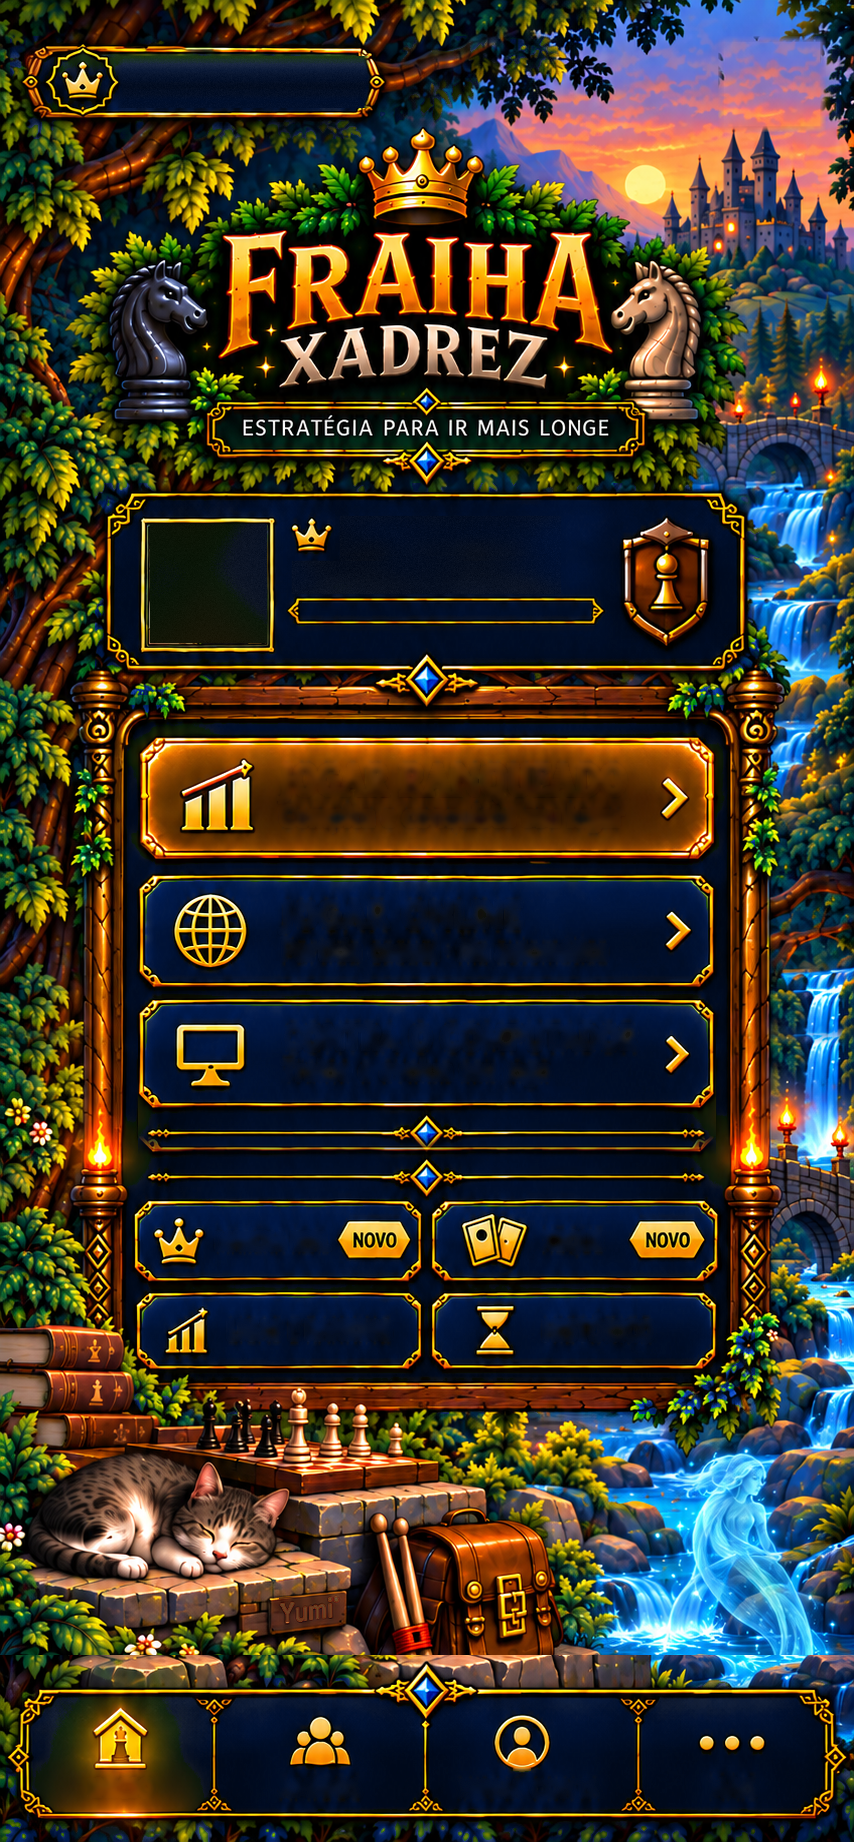
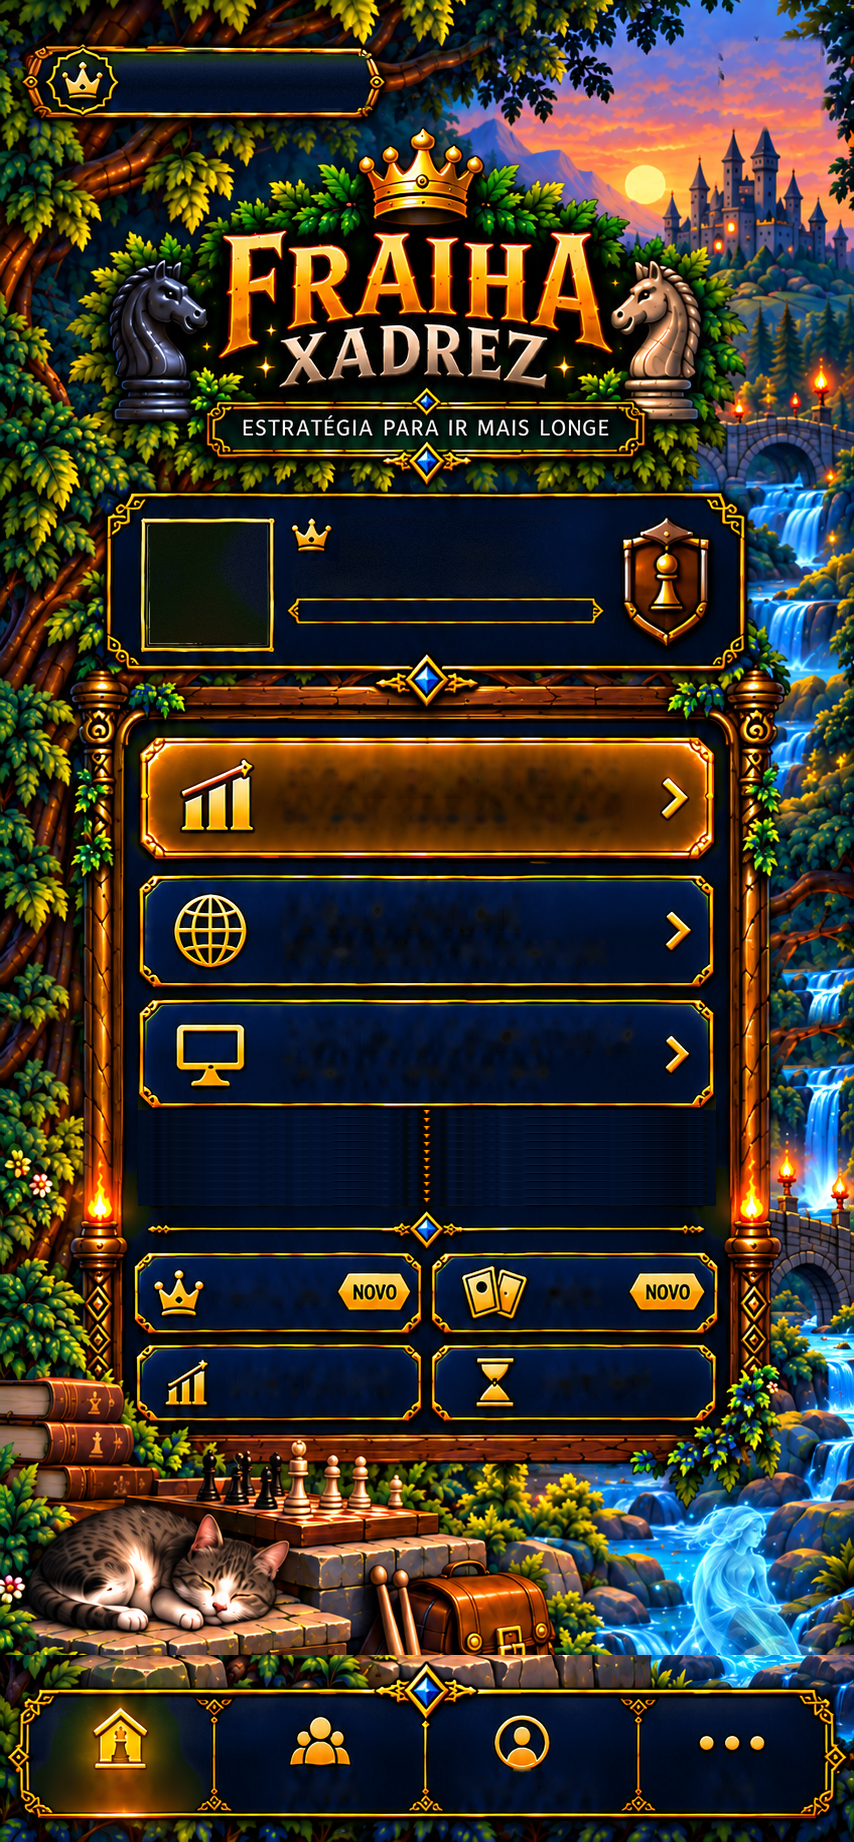
R178e: botão do PASSE = arte do dono (barra roxa de progresso, nível no escudo), PC e celular
Claude-Session: https://claude.ai/code/session_016vKvXoMfUjcNC2AWvYdkWV

Changed region(s): [[0.0, 0.5261, 1.0, 0.8974]]

diff --git a/tools/pass_button_r178e.py b/tools/pass_button_r178e.py
@@ -1,0 +1,75 @@
+#!/usr/bin/env python3
+"""R178e · BOTÃO DO PASSE = a arte do dono (tools/ref_r178_pass_button.png, 2172x724), idêntica.
+Saídas (recortadas na caixa da arte, 2035x501):
+  economy/art/pass_button_plate.png — a arte SEM a frase de baixo, SEM o preenchimento roxo da barra e SEM o número
+                                      do nível (o jogo escreve/desenha esses três, que mudam)
+  economy/art/pass_button_fill.png  — o preenchimento roxo da barra (corpo + ponta), esticado pelo jogo até o progresso
+"""
+import os
+import numpy as np
+import cv2
+from scipy import ndimage
+ROOT = os.path.dirname(os.path.dirname(os.path.abspath(__file__)))
+BOX = (67, 103, 2103, 605)            # x0, y0, x1, y1 da arte (fora é transparente)
+SUB = (515, 338, 1650, 424)           # frase "Temporada de Outubro · faltam 8 dias"
+BAR = (520, 438, 1704, 491)           # miolo da barra (entre as bordas douradas)
+FILL = (520, 438, 1062, 491)          # o roxo da referência
+NUM = (1845, 350, 1950, 458)          # o "7" do escudo
+src = cv2.imread(os.path.join(ROOT, "tools/ref_r178_pass_button.png"), cv2.IMREAD_UNCHANGED)
+rgb = src[..., :3].astype(np.float32)
+A = src[..., 3]
+L = rgb @ np.array([0.114, 0.587, 0.299], np.float32)   # BGR
+
+def fill_bg(img, mask, box, sx=30, sy=4):
+    x0, y0, x1, y1 = box
+    px0, py0, px1, py1 = x0 - 40, y0 - 30, x1 + 40, y1 + 30
+    sub = img[py0:py1, px0:px1]
+    ms = mask[py0:py1, px0:px1]
+    w = (~ms).astype(np.float32)
+    out = np.zeros_like(sub)
+    for s in [(sx, sy), (sx * 2, sy * 2), (sx * 4, sy * 4)]:
+        num = cv2.GaussianBlur(sub * w[..., None], (0, 0), sigmaX=s[0], sigmaY=s[1])
+        den = cv2.GaussianBlur(w, (0, 0), sigmaX=s[0], sigmaY=s[1])[..., None]
+        f = num / np.maximum(den, 1e-4)
+        ok = (den[..., 0] > 0.05) & (out.sum(-1) == 0)
+        out[ok] = f[ok]
+    out += np.random.default_rng(5).normal(0, 1.5, out.shape).astype(np.float32)
+    sub[ms] = out[ms]
+
+clean = rgb.copy()
+# 1) frase: letras claras (creme) sobre o painel azul
+x0, y0, x1, y1 = SUB
+m = np.zeros(L.shape, bool)
+m[y0:y1, x0:x1] = L[y0:y1, x0:x1] > 105
+m = ndimage.binary_dilation(m, iterations=4)
+mm = np.zeros_like(m); mm[y0 - 4:y1 + 4, x0 - 4:x1 + 4] = True; m &= mm
+fill_bg(clean, m, SUB)
+# 2) número do nível: dourado sobre o roxo do escudo
+x0, y0, x1, y1 = NUM
+m = np.zeros(L.shape, bool)
+m[y0:y1, x0:x1] = (L[y0:y1, x0:x1] > 70) | (L[y0:y1, x0:x1] < 36)
+m = ndimage.binary_dilation(m, iterations=3)
+mm = np.zeros_like(m); mm[y0 - 3:y1 + 3, x0 - 3:x1 + 3] = True; m &= mm
+fill_bg(clean, m, NUM, 6, 6)
+# 3) barra: guarda o roxo e põe o fundo vazio da barra (perfil de cada linha tirado da parte vazia)
+fx0, fy0, fx1, fy1 = FILL
+fill_img = src[fy0:fy1, fx0:fx1].copy()
+bx0, by0, bx1, by1 = BAR
+B, G, R = rgb[..., 0], rgb[..., 1], rgb[..., 2]
+purple = (B > 110) & (R > 80) & (G < 110) & (B - G > 50)
+purple = ndimage.binary_dilation(purple, iterations=3)
+for y in range(by0, by1):
+    ref = np.median(rgb[y, 1250:1650], axis=0)
+    if ref[2] > 150 and ref[1] > 90 and ref[0] < 120: continue   # linha da borda dourada
+    xs = np.arange(bx0, fx1 + 8)
+    keep = (R[y, xs] > 150) & (G[y, xs] > 90) & (B[y, xs] < 110) & ~purple[y, xs]   # ouro da ponta esquerda
+    clean[y, xs[~keep]] = ref
+# máscara do roxo (alfa do preenchimento): só o que era roxo
+fa = purple[fy0:fy1, fx0:fx1].astype(np.float32)
+fa = cv2.GaussianBlur(fa, (0, 0), 0.8)
+fill_rgba = np.dstack([fill_img[..., :3], (fa * 255).astype(np.uint8)])
+X0, Y0, X1, Y1 = BOX
+plate = np.dstack([np.clip(clean, 0, 255).astype(np.uint8), A])[Y0:Y1, X0:X1]
+cv2.imwrite(os.path.join(ROOT, "economy/art/pass_button_plate.png"), plate, [cv2.IMWRITE_PNG_COMPRESSION, 9])
+cv2.imwrite(os.path.join(ROOT, "economy/art/pass_button_fill.png"), fill_rgba, [cv2.IMWRITE_PNG_COMPRESSION, 9])
+print("ok plate", plate.shape, "fill", fill_rgba.shape)

diff --git a/tools/home_mobile_v9_r178.py b/tools/home_mobile_v9_r178.py
@@ -10,8 +10,8 @@ import os
 from PIL import Image
 import numpy as np
 ROOT = os.path.dirname(os.path.dirname(os.path.abspath(__file__)))
-D = 44
-Y_MID, Y_SIDE, NAV = 1110, 1000, 1655
+D = 96   # R178e · cabe o botão da arte (562x139)
+Y_MID, Y_SIDE, NAV = 1110, 930, 1655
 X0, X1 = 138, 716
 a = np.asarray(Image.open(os.path.join(ROOT, "ui_v022/assets/home_mobile_v8.png")).convert("RGB")).copy()
 o = a.copy()
@@ -24,6 +24,9 @@ def shift(x0, x1, y):
         yy = y + D - F + i
         o[yy, x0:x1] = (a[yy, x0:x1] * (1 - t) + a[yy - D, x0:x1] * t).astype(np.uint8)
 shift(X0, X1, Y_MID)
+# miolo do espaço novo: fundo liso do menu (linhas sem filete), embaixo do botão do PASSE
+band = a[1148:1156, X0:X1]
+o[Y_MID:Y_MID + D, X0:X1] = np.tile(band, (D // band.shape[0] + 1, 1, 1))[:D]
 shift(0, X0, Y_SIDE)
 shift(X1, 854, Y_SIDE)
 Image.fromarray(o).save(os.path.join(ROOT, "ui_v022/assets/home_mobile_v9.png"), optimize=True)
